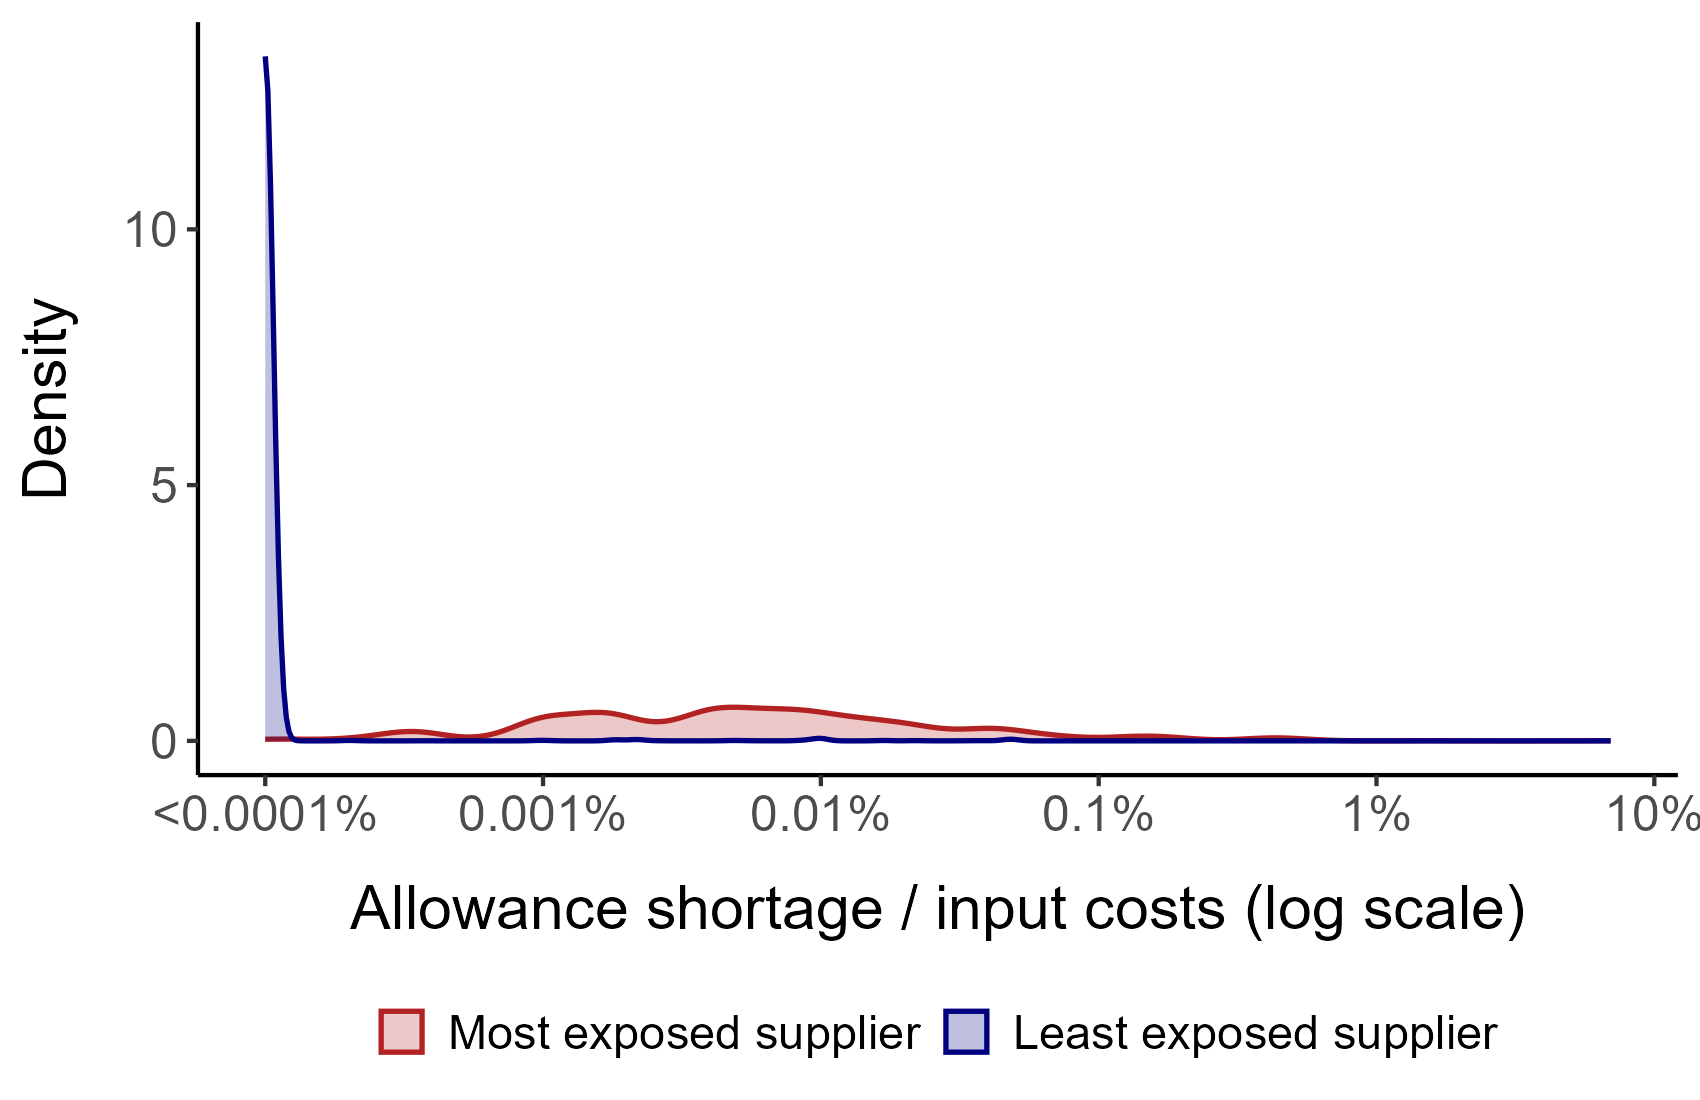
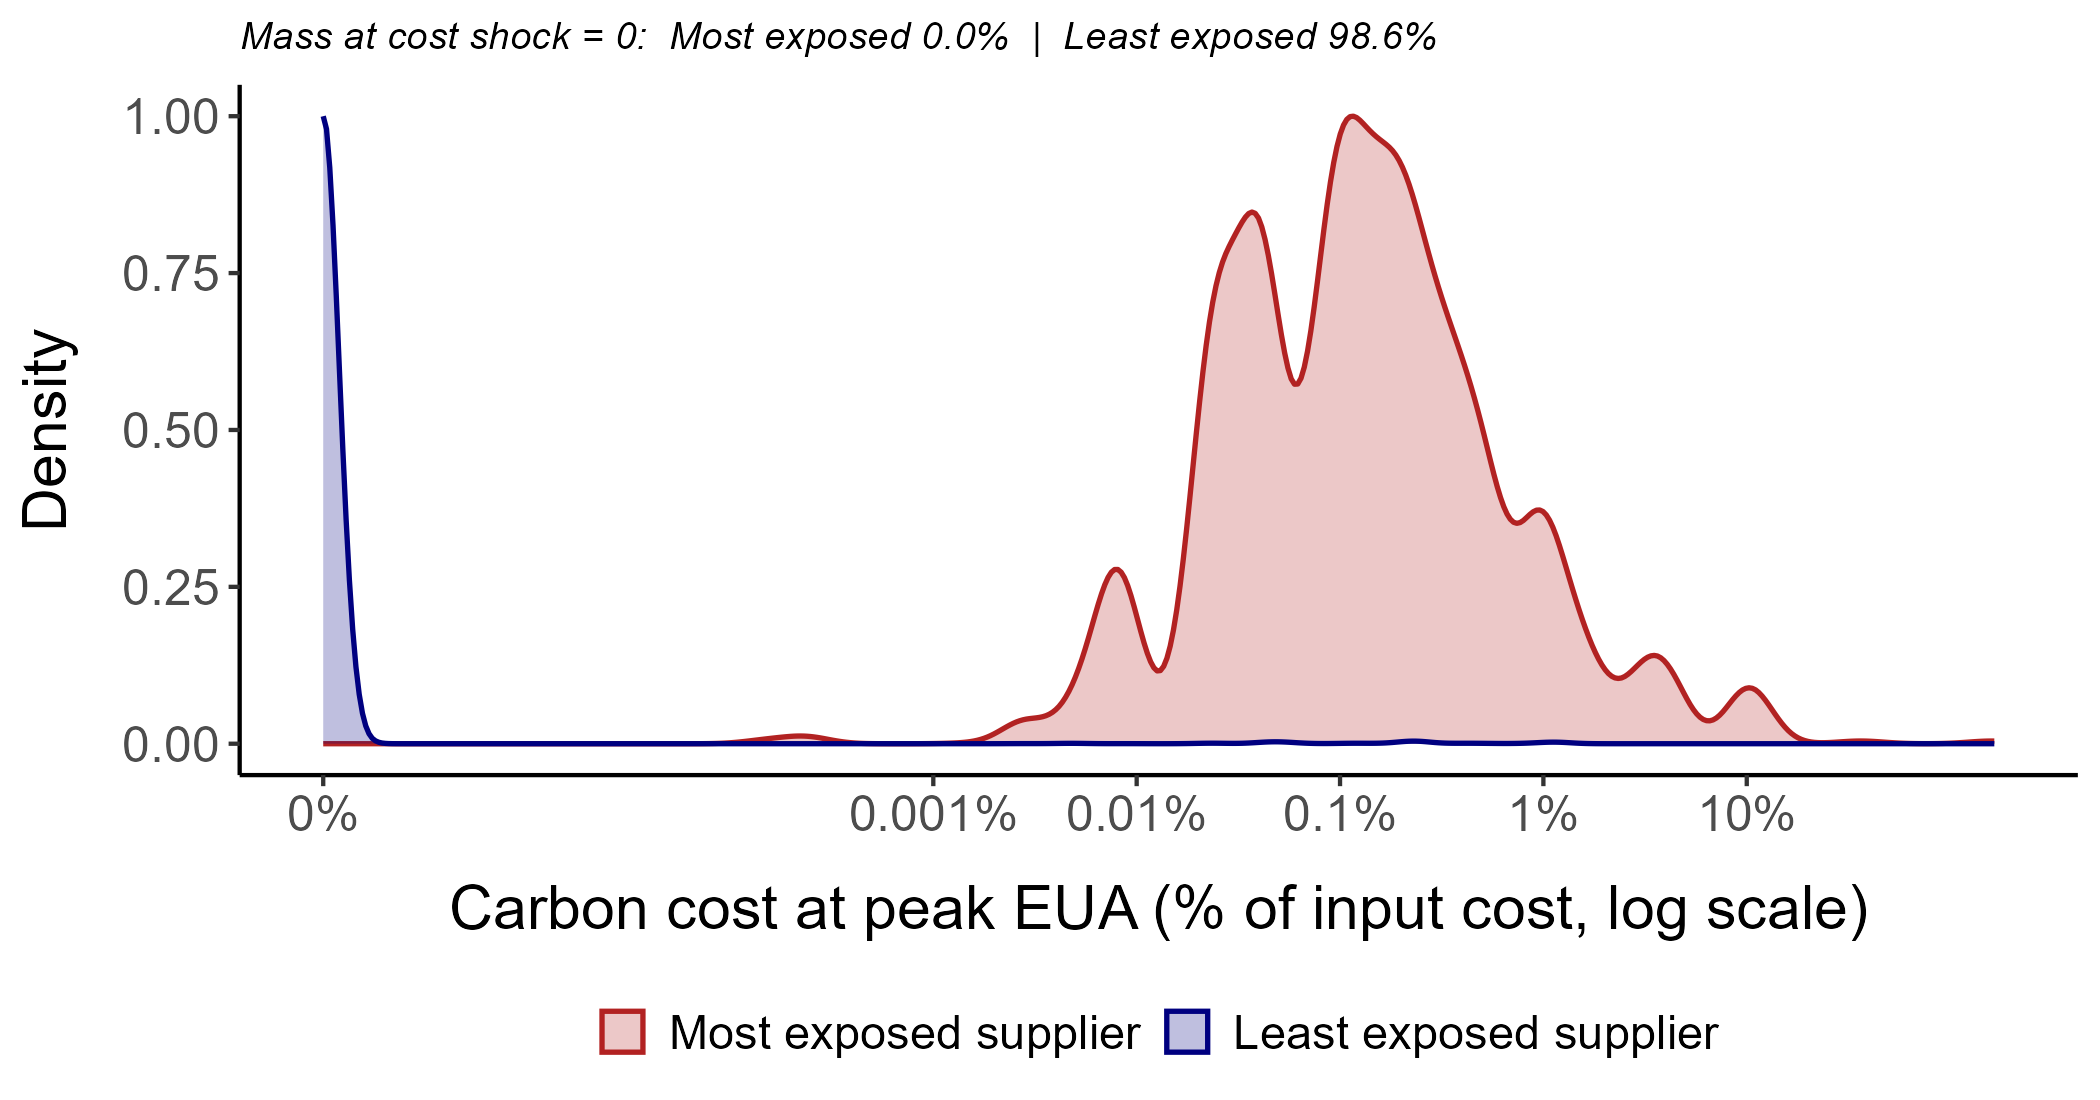
updates on descriptives for within nace

diff --git a/output_rmd/tables/phase4_within_nace4d_descriptive_summary_table.tex b/output_rmd/tables/phase4_within_nace4d_descriptive_summary_table.tex
@@ -17,10 +17,10 @@ Firm age & 15.4 & 16 & 14.8 & 16 \\
 Relationship age (years to 2017) & 9.5 & 8 & 9.3 & 8 \\
 Pre-policy attrition rate (\%) & \multicolumn{2}{c}{9.37} & \multicolumn{2}{c}{12.31} \\
 \midrule
-Pct in EUTL & \multicolumn{2}{c}{85.7} & \multicolumn{2}{c}{7.4} \\
+Pct in EUTL & \multicolumn{2}{c}{100.0} & \multicolumn{2}{c}{7.7} \\
 Annual emissions (tCO2e) & 251,496 & 19,967 & 411,606 & 13,642 \\
 Emission intensity (tCO2e / EUR thousand revenue) & 0.91 & 0.14 & 1.74 & 0.31 \\
-Carbon pricing exposure & 0.0003 & 0.0000 & 0.0000 & 0.0000 \\
+Carbon cost at peak EUA (\% of input cost) & 0.662 & 0.117 & 0.005 & 0.000 \\
 \bottomrule
 \end{tabular}
 \end{table}
@@ -33,7 +33,7 @@ Carbon pricing exposure & 0.0003 & 0.0000 & 0.0000 & 0.0000 \\
 % - Firm age: years since the seller first appears in Annual Accounts, capped at 2016 (proxy for true firm age, which is not observed).
 % - Relationship age (years to 2017): years between the pair's first observed positive sales in the B2B panel (unrestricted; the panel starts in 2002) and the treatment year 2017. Capped from above at 15 (= 2017 - 2002).
 % - Pre-policy attrition rate (\%): average across t in {2010, ..., 2015} of the share of pairs that are alive at year t (positive sales to the buyer in the cell) but not alive at year t+1. Both t and t+1 are pre-policy; this rate is structural, not driven by the MSR.
-% - Pct in EUTL: share of sellers in the role with at least one positive emissions record in the EUTL registry over 2010-2014. Top suppliers are mechanically more likely to be in EUTL because omega > 0 requires an EUTL record.
-% - Annual emissions (tCO2e): pre-period mean emissions for sellers in the EUTL registry. Sellers not in EUTL are excluded from this calculation.
+% - Pct in EUTL: share of sellers in the role with at least one positive emissions record in the EUTL registry in the 2015-2016 omega-measurement window. By construction, top suppliers have omega > 0, which implies in_eutl_omega = TRUE; their Pct in EUTL is therefore 100%.
+% - Annual emissions (tCO2e): pre-period (2010-2014) mean emissions for sellers in the EUTL registry. Sellers not in EUTL are excluded from this calculation.
 % - Emission intensity: pre-period mean of (annual emissions in tCO2e) / (annual revenue in EUR thousand), for sellers in the EUTL registry.
-% - Carbon pricing exposure: omega, defined as max(emissions - free allocation, 0) * EUA price / total cost, averaged over the 2015-2016 omega-measurement window.
+% - Carbon cost at peak EUA (% of input cost): omega multiplied by the deflated end-of-2018 EUA settlement price (23.70 EUR/tCO2, deflated to 2016 EUR using the Belgian aggregate PPI) and expressed as a percentage. The underlying omega is max(emissions - free allocation, 0) / total cost (in tCO2 / EUR), averaged over the 2015-2016 omega-measurement window.
